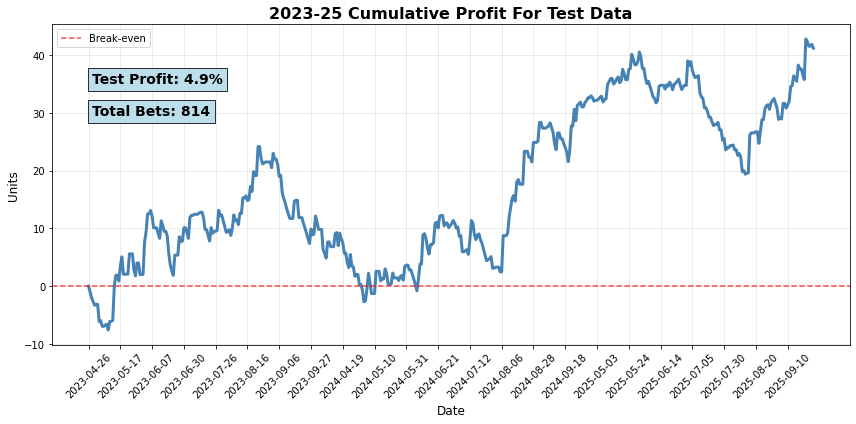
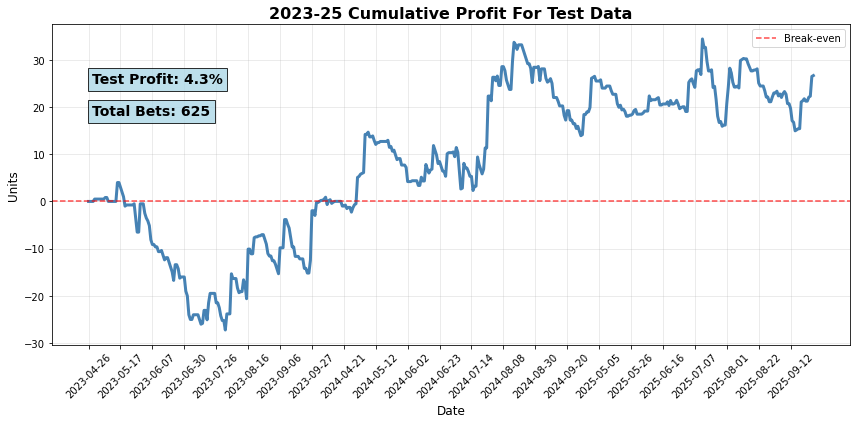
update menu and data

diff --git a/mlm.html b/mlm.html
@@ -89,14 +89,21 @@ ul.task-list li input[type="checkbox"] {
 </button>
           <div class="collapse navbar-collapse" id="navbarCollapse">
             <ul class="navbar-nav navbar-nav-scroll me-auto">
-  <li class="nav-item">
-    <a class="nav-link" href="./projects.html"> 
-<span class="menu-text">Project Blogs</span></a>
+  <li class="nav-item dropdown ">
+    <a class="nav-link dropdown-toggle" href="#" id="nav-menu-python-ml-model" role="link" data-bs-toggle="dropdown" aria-expanded="false">
+ <span class="menu-text">Python ML Model</span>
+    </a>
+    <ul class="dropdown-menu" aria-labelledby="nav-menu-python-ml-model">    
+        <li>
+    <a class="dropdown-item" href="./mlm.html">
+ <span class="dropdown-text">Readme Overview</span></a>
   </li>  
-  <li class="nav-item">
-    <a class="nav-link active" href="./mlm.html" aria-current="page"> 
-<span class="menu-text">Python ML Model</span></a>
+        <li>
+    <a class="dropdown-item" href="https://us-east-1.online.tableau.com/#/site/brendanstyle1-f964b4bf36/workbooks/4082459/views">
+ <span class="dropdown-text">Data Visualization</span></a>
   </li>  
+    </ul>
+  </li>
   <li class="nav-item">
     <a class="nav-link" href="./sql.html"> 
 <span class="menu-text">SQL Database + Data Viz</span></a>
@@ -136,9 +143,7 @@ ul.task-list li input[type="checkbox"] {
 </header>
 
 
-<section id="using-ml-to-find-value-in-hr-betting-markets" class="level1">
-<h1>Using ML to Find Value in HR Betting Markets</h1>
-<p>Over the past few years, the market for sports betting has skyrocketed, from around $13b wagered in 2019 to $113b wagered in 2023. One of the more popular bets that a sportsbooks will receive is wagers on home run props, and due to the relative rarity of home runs, these types of bets usually end up making a lot of money for them. As a project to tackle in my free time, I thought it would fun to try and create an algorithm using Python and Machine-Learning Techniques to find value in this betting markets.</p>
+<p>Over the past few years, the market for sports betting has skyrocketed, from around $13b wagered in 2019 to $113b wagered in 2023. One of the more popular bets that a sportsbooks will receive is wagers on home run props, and due to the relative rarity of home runs, these types of bets usually end up making a lot of money for them. As a project to tackle in my free time, I thought it would fun to try and create an algorithm using Python and Machine-Learning techniques to find value in these betting markets.</p>
 <section id="data" class="level2">
 <h2 class="anchored" data-anchor-id="data">Data</h2>
 <p>The data for this project was obtained using the Python library PyBaseball, which I used to obtain data on over 6.5 million pitches from 2021-2025. I then used mainly the Pandas and NumPy libraries to transform these datasets and get the stats I needed. For the stats I collected, I mainly used “Statcast” stats, so-called because they first became available in 2015 with the inception of Statcast. These stats include things like average exit velocity, xwOBACON, barrel rate, etc. Since these stats contain very little context regarding the players batted ball distribution and plate discipline, I also included some non-Statcast data, such as groundball to flyball ratio, line drive rate, swing rate, chase rate, and whiff rate.</p>
@@ -163,32 +168,22 @@ ul.task-list li input[type="checkbox"] {
 </section>
 <section id="model-results" class="level2">
 <h2 class="anchored" data-anchor-id="model-results">Model Results</h2>
-<p>After predicting our own odds for 85k observations across the 2023-2025 seasons, I split them into train and test sets and found the most ideal blend of sportsbook vs model weighting, the proper amount of “advantage” the model saw in the bet, and the proper threshold. I tracked the total bet numbers and ROI for the training set here:</p>
+<p>After predicting our own odds for 85k observations across the 2023-2025 seasons, I split them into train and test sets and found the most ideal blend of sportsbook vs model weighting, the proper amount of “advantage” the model saw in the bet, and the proper threshold. Here are the results for the test data set:</p>
 <section id="unders" class="level4">
 <h4 class="anchored" data-anchor-id="unders">Unders</h4>
-<p>339 Bets, 2.1% profit</p>
+<p>307 Bets, 3.1% profit</p>
 </section>
 <section id="overs" class="level4">
 <h4 class="anchored" data-anchor-id="overs">Overs:</h4>
-<p>197 Bets, 11.9% Profit</p>
-<p>Though the unders bets are dealing with some pretty small margins, a profit is still a profit. I then took my test data set and ran the numbers using the same parameters:</p>
-</section>
-<section id="unders-1" class="level4">
-<h4 class="anchored" data-anchor-id="unders-1">Unders</h4>
-<p>520 Bets, 3.7% profit</p>
-</section>
-<section id="overs-1" class="level4">
-<h4 class="anchored" data-anchor-id="overs-1">Overs:</h4>
-<p>314 Bets, 7.1% Profit</p>
+<p>318 Bets, 5.2% Profit</p>
 <p><img src="./img/profit_plot.png" class="img-fluid"></p>
-<p>Very promising! Overall, the test set had 834 bets across its 51k observations, and produced an ROI just south of 5%. Prorated for a full season, this would be somewhere in the range of 550-600 total bets, and at a 4.9% ROI, a projected profit of 30 units! For reference the “unit” is whatever your average bet size is. so, if you bet $10 on every single bet for a full season, you would expect to make $300 overall. To double check reliability, I ran the numbers on a per-year basis for both unders and overs. Both were successful for 2 out of the 3 years in the sample, and in both cases, the year that did not match the success had the small sample.</p>
+<p>Very promising! Overall, the test set had 625 bets across its 35k observations, and produced an ROI of over 4%. It should be noted that the training data actually produced a worse result, overall posting a 3.1% ROI across 946 bets, so we might expect future results to be somewhere in between the two outcomes. Accounting for this, if we move forward with an estimate of 3.5% profit, prorated at around 675 bets per season, the expected return would be around 23-24 units. For reference the “unit” is whatever your average bet size is. so, if you bet $10 on every single bet for a full season, you would expect to make $230-240 overall. To double check reliability, I ran the numbers on a per-year basis for both unders and overs. Both were successful for 2 out of the 3 years in the sample, and in both cases, the year that did not match the success had the smallest sample.</p>
 </section>
 <section id="future-work" class="level3">
 <h3 class="anchored" data-anchor-id="future-work">Future Work</h3>
 <p>Though these results are highly encouraging, I believe I have a lot more to work on. While I believe my method for determining a batter’s “power rating” is of sound process, I cannot say the same for pitchers. As it currently stands, the features for pitchers contain stats that correlate with giving up home runs, and stats that are sticky year-over-year, but these two groups are mutually exclusive. In a future 2.0 version, I would have to spend some time to create a model similar to many Stuff+ models you may see on the internet, but just simply for home runs. Outside of that, things like weather/time of year and pulled fly-ball rate will also have to be added, as those have more recently come to my attention as stats that can have a significant impact on home runs. For now, I believe this is very encouraging, but can still improve in some big ways</p>
 
 
-</section>
 </section>
 </section>
 

diff --git a/posts/starwars/starwars_df.html b/posts/starwars/starwars_df.html
@@ -129,14 +129,21 @@ pre > code.sourceCode > span > a:first-child::before { text-decoration: underlin
 </button>
           <div class="collapse navbar-collapse" id="navbarCollapse">
             <ul class="navbar-nav navbar-nav-scroll me-auto">
-  <li class="nav-item">
-    <a class="nav-link" href="../../projects.html"> 
-<span class="menu-text">Project Blogs</span></a>
+  <li class="nav-item dropdown ">
+    <a class="nav-link dropdown-toggle" href="#" id="nav-menu-python-ml-model" role="link" data-bs-toggle="dropdown" aria-expanded="false">
+ <span class="menu-text">Python ML Model</span>
+    </a>
+    <ul class="dropdown-menu" aria-labelledby="nav-menu-python-ml-model">    
+        <li>
+    <a class="dropdown-item" href="../../mlm.html">
+ <span class="dropdown-text">Readme Overview</span></a>
   </li>  
-  <li class="nav-item">
-    <a class="nav-link" href="../../mlm.html"> 
-<span class="menu-text">Python ML Model</span></a>
+        <li>
+    <a class="dropdown-item" href="https://us-east-1.online.tableau.com/#/site/brendanstyle1-f964b4bf36/workbooks/4082459/views">
+ <span class="dropdown-text">Data Visualization</span></a>
   </li>  
+    </ul>
+  </li>
   <li class="nav-item">
     <a class="nav-link" href="../../sql.html"> 
 <span class="menu-text">SQL Database + Data Viz</span></a>

diff --git a/sql.html b/sql.html
@@ -90,14 +90,21 @@ ul.task-list li input[type="checkbox"] {
 </button>
           <div class="collapse navbar-collapse" id="navbarCollapse">
             <ul class="navbar-nav navbar-nav-scroll me-auto">
-  <li class="nav-item">
-    <a class="nav-link" href="./projects.html"> 
-<span class="menu-text">Project Blogs</span></a>
+  <li class="nav-item dropdown ">
+    <a class="nav-link dropdown-toggle" href="#" id="nav-menu-python-ml-model" role="link" data-bs-toggle="dropdown" aria-expanded="false">
+ <span class="menu-text">Python ML Model</span>
+    </a>
+    <ul class="dropdown-menu" aria-labelledby="nav-menu-python-ml-model">    
+        <li>
+    <a class="dropdown-item" href="./mlm.html">
+ <span class="dropdown-text">Readme Overview</span></a>
   </li>  
-  <li class="nav-item">
-    <a class="nav-link" href="./mlm.html"> 
-<span class="menu-text">Python ML Model</span></a>
+        <li>
+    <a class="dropdown-item" href="https://us-east-1.online.tableau.com/#/site/brendanstyle1-f964b4bf36/workbooks/4082459/views">
+ <span class="dropdown-text">Data Visualization</span></a>
   </li>  
+    </ul>
+  </li>
   <li class="nav-item">
     <a class="nav-link active" href="./sql.html" aria-current="page"> 
 <span class="menu-text">SQL Database + Data Viz</span></a>

diff --git a/posts/PySpark Basics/index.html b/posts/PySpark Basics/index.html
@@ -91,14 +91,21 @@ ul.task-list li input[type="checkbox"] {
 </button>
           <div class="collapse navbar-collapse" id="navbarCollapse">
             <ul class="navbar-nav navbar-nav-scroll me-auto">
-  <li class="nav-item">
-    <a class="nav-link" href="../../projects.html"> 
-<span class="menu-text">Project Blogs</span></a>
+  <li class="nav-item dropdown ">
+    <a class="nav-link dropdown-toggle" href="#" id="nav-menu-python-ml-model" role="link" data-bs-toggle="dropdown" aria-expanded="false">
+ <span class="menu-text">Python ML Model</span>
+    </a>
+    <ul class="dropdown-menu" aria-labelledby="nav-menu-python-ml-model">    
+        <li>
+    <a class="dropdown-item" href="../../mlm.html">
+ <span class="dropdown-text">Readme Overview</span></a>
   </li>  
-  <li class="nav-item">
-    <a class="nav-link" href="../../mlm.html"> 
-<span class="menu-text">Python ML Model</span></a>
+        <li>
+    <a class="dropdown-item" href="https://us-east-1.online.tableau.com/#/site/brendanstyle1-f964b4bf36/workbooks/4082459/views">
+ <span class="dropdown-text">Data Visualization</span></a>
   </li>  
+    </ul>
+  </li>
   <li class="nav-item">
     <a class="nav-link" href="../../sql.html"> 
 <span class="menu-text">SQL Database + Data Viz</span></a>

diff --git a/posts/welcome/index.html b/posts/welcome/index.html
@@ -91,14 +91,21 @@ ul.task-list li input[type="checkbox"] {
 </button>
           <div class="collapse navbar-collapse" id="navbarCollapse">
             <ul class="navbar-nav navbar-nav-scroll me-auto">
-  <li class="nav-item">
-    <a class="nav-link" href="../../projects.html"> 
-<span class="menu-text">Project Blogs</span></a>
+  <li class="nav-item dropdown ">
+    <a class="nav-link dropdown-toggle" href="#" id="nav-menu-python-ml-model" role="link" data-bs-toggle="dropdown" aria-expanded="false">
+ <span class="menu-text">Python ML Model</span>
+    </a>
+    <ul class="dropdown-menu" aria-labelledby="nav-menu-python-ml-model">    
+        <li>
+    <a class="dropdown-item" href="../../mlm.html">
+ <span class="dropdown-text">Readme Overview</span></a>
   </li>  
-  <li class="nav-item">
-    <a class="nav-link" href="../../mlm.html"> 
-<span class="menu-text">Python ML Model</span></a>
+        <li>
+    <a class="dropdown-item" href="https://us-east-1.online.tableau.com/#/site/brendanstyle1-f964b4bf36/workbooks/4082459/views">
+ <span class="dropdown-text">Data Visualization</span></a>
   </li>  
+    </ul>
+  </li>
   <li class="nav-item">
     <a class="nav-link" href="../../sql.html"> 
 <span class="menu-text">SQL Database + Data Viz</span></a>

diff --git a/projects/320_final/index.html b/projects/320_final/index.html
@@ -91,14 +91,21 @@ ul.task-list li input[type="checkbox"] {
 </button>
           <div class="collapse navbar-collapse" id="navbarCollapse">
             <ul class="navbar-nav navbar-nav-scroll me-auto">
-  <li class="nav-item">
-    <a class="nav-link" href="../../projects.html"> 
-<span class="menu-text">Project Blogs</span></a>
+  <li class="nav-item dropdown ">
+    <a class="nav-link dropdown-toggle" href="#" id="nav-menu-python-ml-model" role="link" data-bs-toggle="dropdown" aria-expanded="false">
+ <span class="menu-text">Python ML Model</span>
+    </a>
+    <ul class="dropdown-menu" aria-labelledby="nav-menu-python-ml-model">    
+        <li>
+    <a class="dropdown-item" href="../../mlm.html">
+ <span class="dropdown-text">Readme Overview</span></a>
   </li>  
-  <li class="nav-item">
-    <a class="nav-link" href="../../mlm.html"> 
-<span class="menu-text">Python ML Model</span></a>
+        <li>
+    <a class="dropdown-item" href="https://us-east-1.online.tableau.com/#/site/brendanstyle1-f964b4bf36/workbooks/4082459/views">
+ <span class="dropdown-text">Data Visualization</span></a>
   </li>  
+    </ul>
+  </li>
   <li class="nav-item">
     <a class="nav-link" href="../../sql.html"> 
 <span class="menu-text">SQL Database + Data Viz</span></a>

diff --git a/projects/proj_1/index.html b/projects/proj_1/index.html
@@ -91,14 +91,21 @@ ul.task-list li input[type="checkbox"] {
 </button>
           <div class="collapse navbar-collapse" id="navbarCollapse">
             <ul class="navbar-nav navbar-nav-scroll me-auto">
-  <li class="nav-item">
-    <a class="nav-link" href="../../projects.html"> 
-<span class="menu-text">Project Blogs</span></a>
+  <li class="nav-item dropdown ">
+    <a class="nav-link dropdown-toggle" href="#" id="nav-menu-python-ml-model" role="link" data-bs-toggle="dropdown" aria-expanded="false">
+ <span class="menu-text">Python ML Model</span>
+    </a>
+    <ul class="dropdown-menu" aria-labelledby="nav-menu-python-ml-model">    
+        <li>
+    <a class="dropdown-item" href="../../mlm.html">
+ <span class="dropdown-text">Readme Overview</span></a>
   </li>  
-  <li class="nav-item">
-    <a class="nav-link" href="../../mlm.html"> 
-<span class="menu-text">Python ML Model</span></a>
+        <li>
+    <a class="dropdown-item" href="https://us-east-1.online.tableau.com/#/site/brendanstyle1-f964b4bf36/workbooks/4082459/views">
+ <span class="dropdown-text">Data Visualization</span></a>
   </li>  
+    </ul>
+  </li>
   <li class="nav-item">
     <a class="nav-link" href="../../sql.html"> 
 <span class="menu-text">SQL Database + Data Viz</span></a>

diff --git a/projects.html b/projects.html
@@ -149,14 +149,21 @@ window.Quarto = {
 </button>
           <div class="collapse navbar-collapse" id="navbarCollapse">
             <ul class="navbar-nav navbar-nav-scroll me-auto">
-  <li class="nav-item">
-    <a class="nav-link active" href="./projects.html" aria-current="page"> 
-<span class="menu-text">Project Blogs</span></a>
+  <li class="nav-item dropdown ">
+    <a class="nav-link dropdown-toggle" href="#" id="nav-menu-python-ml-model" role="link" data-bs-toggle="dropdown" aria-expanded="false">
+ <span class="menu-text">Python ML Model</span>
+    </a>
+    <ul class="dropdown-menu" aria-labelledby="nav-menu-python-ml-model">    
+        <li>
+    <a class="dropdown-item" href="./mlm.html">
+ <span class="dropdown-text">Readme Overview</span></a>
   </li>  
-  <li class="nav-item">
-    <a class="nav-link" href="./mlm.html"> 
-<span class="menu-text">Python ML Model</span></a>
+        <li>
+    <a class="dropdown-item" href="https://us-east-1.online.tableau.com/#/site/brendanstyle1-f964b4bf36/workbooks/4082459/views">
+ <span class="dropdown-text">Data Visualization</span></a>
   </li>  
+    </ul>
+  </li>
   <li class="nav-item">
     <a class="nav-link" href="./sql.html"> 
 <span class="menu-text">SQL Database + Data Viz</span></a>

diff --git a/index.html b/index.html
@@ -88,14 +88,21 @@ ul.task-list li input[type="checkbox"] {
 </button>
           <div class="collapse navbar-collapse" id="navbarCollapse">
             <ul class="navbar-nav navbar-nav-scroll me-auto">
-  <li class="nav-item">
-    <a class="nav-link" href="./projects.html"> 
-<span class="menu-text">Project Blogs</span></a>
+  <li class="nav-item dropdown ">
+    <a class="nav-link dropdown-toggle" href="#" id="nav-menu-python-ml-model" role="link" data-bs-toggle="dropdown" aria-expanded="false">
+ <span class="menu-text">Python ML Model</span>
+    </a>
+    <ul class="dropdown-menu" aria-labelledby="nav-menu-python-ml-model">    
+        <li>
+    <a class="dropdown-item" href="./mlm.html">
+ <span class="dropdown-text">Readme Overview</span></a>
   </li>  
-  <li class="nav-item">
-    <a class="nav-link" href="./mlm.html"> 
-<span class="menu-text">Python ML Model</span></a>
+        <li>
+    <a class="dropdown-item" href="https://us-east-1.online.tableau.com/#/site/brendanstyle1-f964b4bf36/workbooks/4082459/views">
+ <span class="dropdown-text">Data Visualization</span></a>
   </li>  
+    </ul>
+  </li>
   <li class="nav-item">
     <a class="nav-link" href="./sql.html"> 
 <span class="menu-text">SQL Database + Data Viz</span></a>

diff --git a/model.html b/model.html
@@ -90,14 +90,21 @@ ul.task-list li input[type="checkbox"] {
 </button>
           <div class="collapse navbar-collapse" id="navbarCollapse">
             <ul class="navbar-nav navbar-nav-scroll me-auto">
-  <li class="nav-item">
-    <a class="nav-link" href="./projects.html"> 
-<span class="menu-text">Project Blogs</span></a>
+  <li class="nav-item dropdown ">
+    <a class="nav-link dropdown-toggle" href="#" id="nav-menu-python-ml-model" role="link" data-bs-toggle="dropdown" aria-expanded="false">
+ <span class="menu-text">Python ML Model</span>
+    </a>
+    <ul class="dropdown-menu" aria-labelledby="nav-menu-python-ml-model">    
+        <li>
+    <a class="dropdown-item" href="./mlm.html">
+ <span class="dropdown-text">Readme Overview</span></a>
   </li>  
-  <li class="nav-item">
-    <a class="nav-link" href="./mlm.html"> 
-<span class="menu-text">Python ML Model</span></a>
+        <li>
+    <a class="dropdown-item" href="https://us-east-1.online.tableau.com/#/site/brendanstyle1-f964b4bf36/workbooks/4082459/views">
+ <span class="dropdown-text">Data Visualization</span></a>
   </li>  
+    </ul>
+  </li>
   <li class="nav-item">
     <a class="nav-link" href="./sql.html"> 
 <span class="menu-text">SQL Database + Data Viz</span></a>

diff --git a/blog-listing.html b/blog-listing.html
@@ -149,14 +149,21 @@ window.Quarto = {
 </button>
           <div class="collapse navbar-collapse" id="navbarCollapse">
             <ul class="navbar-nav navbar-nav-scroll me-auto">
-  <li class="nav-item">
-    <a class="nav-link" href="./projects.html"> 
-<span class="menu-text">Project Blogs</span></a>
+  <li class="nav-item dropdown ">
+    <a class="nav-link dropdown-toggle" href="#" id="nav-menu-python-ml-model" role="link" data-bs-toggle="dropdown" aria-expanded="false">
+ <span class="menu-text">Python ML Model</span>
+    </a>
+    <ul class="dropdown-menu" aria-labelledby="nav-menu-python-ml-model">    
+        <li>
+    <a class="dropdown-item" href="./mlm.html">
+ <span class="dropdown-text">Readme Overview</span></a>
   </li>  
-  <li class="nav-item">
-    <a class="nav-link" href="./mlm.html"> 
-<span class="menu-text">Python ML Model</span></a>
+        <li>
+    <a class="dropdown-item" href="https://us-east-1.online.tableau.com/#/site/brendanstyle1-f964b4bf36/workbooks/4082459/views">
+ <span class="dropdown-text">Data Visualization</span></a>
   </li>  
+    </ul>
+  </li>
   <li class="nav-item">
     <a class="nav-link" href="./sql.html"> 
 <span class="menu-text">SQL Database + Data Viz</span></a>
